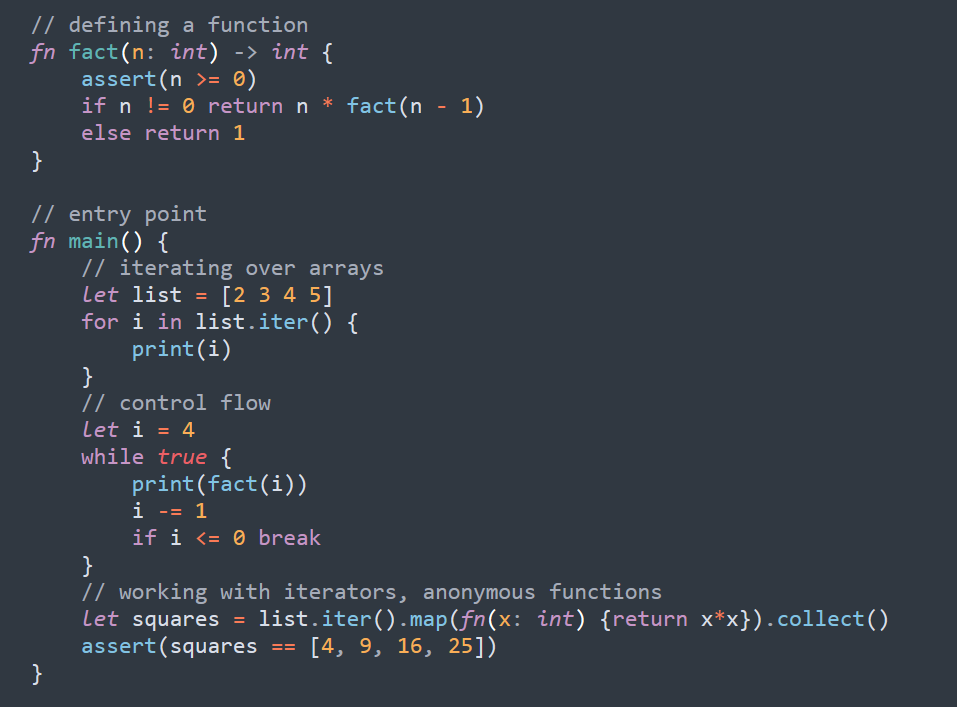
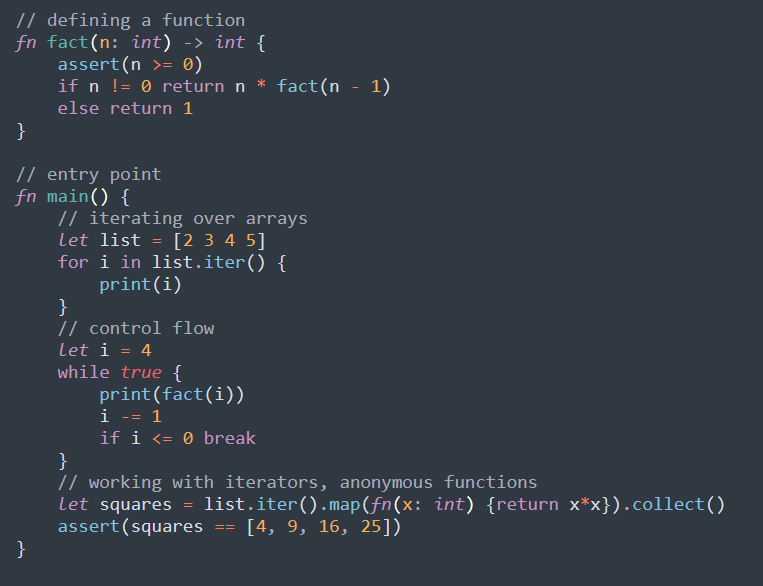
update screenshot

diff --git a/readme.md b/readme.md
@@ -4,7 +4,7 @@ Scripting language that compiles to lua.
 
 ### Syntax
 
-![screenshot](syntax.png)
+<img src="syntax.png" alt="syntax" style="width:763px;"/>
 
 Some notable changes from lua:
 
